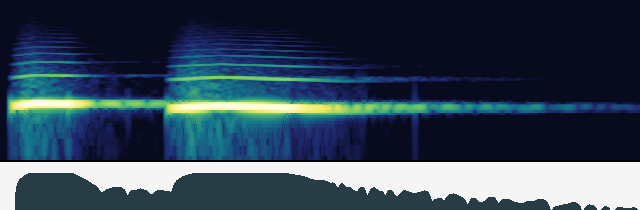
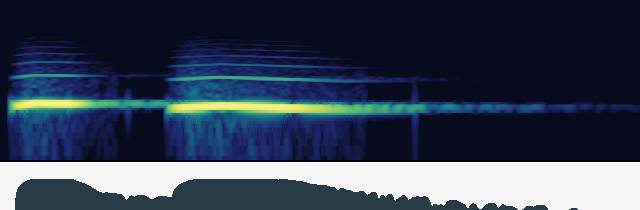
Sound: the owl answers below the meow (it measured 9 LU over it); the roof under the eave 6 dB down (it was over the mix target); evidence regenerated

diff --git a/src/calls.js b/src/calls.js
@@ -278,8 +278,8 @@ const SYNTHS = {
   owl(io, out, t) {
     const f = rand(330, 370);
     const formants = [[f * 1.05, 2, 1.6], [f * 2.1, 3, 0.15]];
-    voiced(io, out, { t, length: 0.28, contour: [[0, f * 0.9], [0.3, f], [1, f * 0.97]], formants, gain: 0.07, type: "triangle", breath: 0.12, attack: 0.05, release: 0.08 });
-    voiced(io, out, { t: t + 0.55, length: 0.62, contour: [[0, f * 0.84], [0.3, f * 0.92], [1, f * 0.8]], formants, gain: 0.075, type: "triangle", breath: 0.12, attack: 0.07, release: 0.2 });
+    voiced(io, out, { t, length: 0.28, contour: [[0, f * 0.9], [0.3, f], [1, f * 0.97]], formants, gain: 0.018, type: "triangle", breath: 0.12, attack: 0.05, release: 0.08 });
+    voiced(io, out, { t: t + 0.55, length: 0.62, contour: [[0, f * 0.84], [0.3, f * 0.92], [1, f * 0.8]], formants, gain: 0.02, type: "triangle", breath: 0.12, attack: 0.07, release: 0.2 });
     return 1.5;
   },
 

diff --git a/src/sound/weather.js b/src/sound/weather.js
@@ -176,7 +176,7 @@ export function createWeather(core) {
           roofGain = p.gain;
         }
       }
-      if (under === "eave") roof = { gain: 2, pan: 0, cutoff: 20000 };
+      if (under === "eave") roof = { gain: 1, pan: 0, cutoff: 20000 };
       set(rig.roof.out.gain, roof ? roof.gain : 0);
       set(rig.roofPan.pan, roof?.pan ?? 0);
       set(rig.roofAir.frequency, roof?.cutoff ?? 20000);

diff --git a/docs/review/sound/README.md b/docs/review/sound/README.md
@@ -92,7 +92,7 @@ Numbered as on the audition page (`/?audition`) and in the listening checklist (
 | 5.3 | Chirrup | 0.29 | -30.2 | -30.2 | -37.7 | -39.2 | 755 | a questioning 'mrrp?' | [png](spectrograms/5.3-chirrup.png) |
 | 5.4 | The wisp's answer | 1.25 | -31.9 | -31.9 | -39.2 | -41.8 | 1582 | three small glassy notes skipping up | [png](spectrograms/5.4-wisp.png) |
 | 5.5 | A penguin's soft 'haw' back (8 m left) | 0.65 | -26.4 | -26.4 | -42.0 | -42.8 | 729 | one short soft honk | [png](spectrograms/5.5-haw.png) |
-| 5.6 | The owl in the milkwood (25 m ahead) | 1.92 | -17.0 | -17.0 | -18.8 | -21.8 | 332 | a soft 'hoo, hooo', the second lower and longer | [png](spectrograms/5.6-owl.png) |
+| 5.6 | The owl in the milkwood (25 m ahead) | 1.92 | -28.5 | -28.5 | -30.2 | -33.2 | 331 | a soft 'hoo, hooo', the second lower and longer | [png](spectrograms/5.6-owl.png) |
 | 5.7 | The lighthouse throwing a meow back (25 m) | 0.79 | -20.3 | -20.3 | -26.1 | -28.0 | 1022 | the meow, late and dark | [png](spectrograms/5.7-tower-echo.png) |
 
 ### 6. The purr
@@ -108,7 +108,7 @@ Numbered as on the audition page (`/?audition`) and in the listening checklist (
 | 7.1 | Rain 4 mm/h in the open (scene, 8 s) | 8.30 | -22.4 | -22.3 | -28.6 | -29.0 | 5855 | a soft full rain, lighter on sand | [png](spectrograms/7.1-rain-open.png) |
 | 7.2 | Rain under the milkwood (scene, 8 s) | 8.30 | -16.2 | -16.0 | -25.0 | -25.3 | 8981 | the open rain softer, leaves louder, big drips falling | [png](spectrograms/7.2-rain-tree.png) |
 | 7.3 | Rain on the iron roof, 12 m away (scene, 8 s) | 8.30 | -12.4 | -12.4 | -24.7 | -25.3 | 4982 | the roof ringing and drumming from where it is | [png](spectrograms/7.3-rain-roof.png) |
-| 7.4 | Under the eave (scene, 8 s) | 8.30 | -12.8 | -12.8 | -28.3 | -31.9 | 928 | outside soft and far, the roof loud overhead, a gutter dripping: the contrast is the point | [png](spectrograms/7.4-rain-eave.png) |
+| 7.4 | Under the eave (scene, 8 s) | 8.30 | -18.8 | -18.8 | -33.8 | -37.2 | 990 | outside soft and far, the roof loud overhead, a gutter dripping: the contrast is the point | [png](spectrograms/7.4-rain-eave.png) |
 | 7.5 | Thunder, 1.5 km | 11.54 | -13.2 | -13.2 | -24.5 | -27.9 | 131 | a crack then rolls; loud but not painful | [png](spectrograms/7.5-thunder-near.png) |
 | 7.6 | Thunder, 8 km | 28.47 | -19.5 | -19.5 | -30.2 | -36.7 | 84 | only a low grumble | [png](spectrograms/7.6-thunder-far.png) |
 
